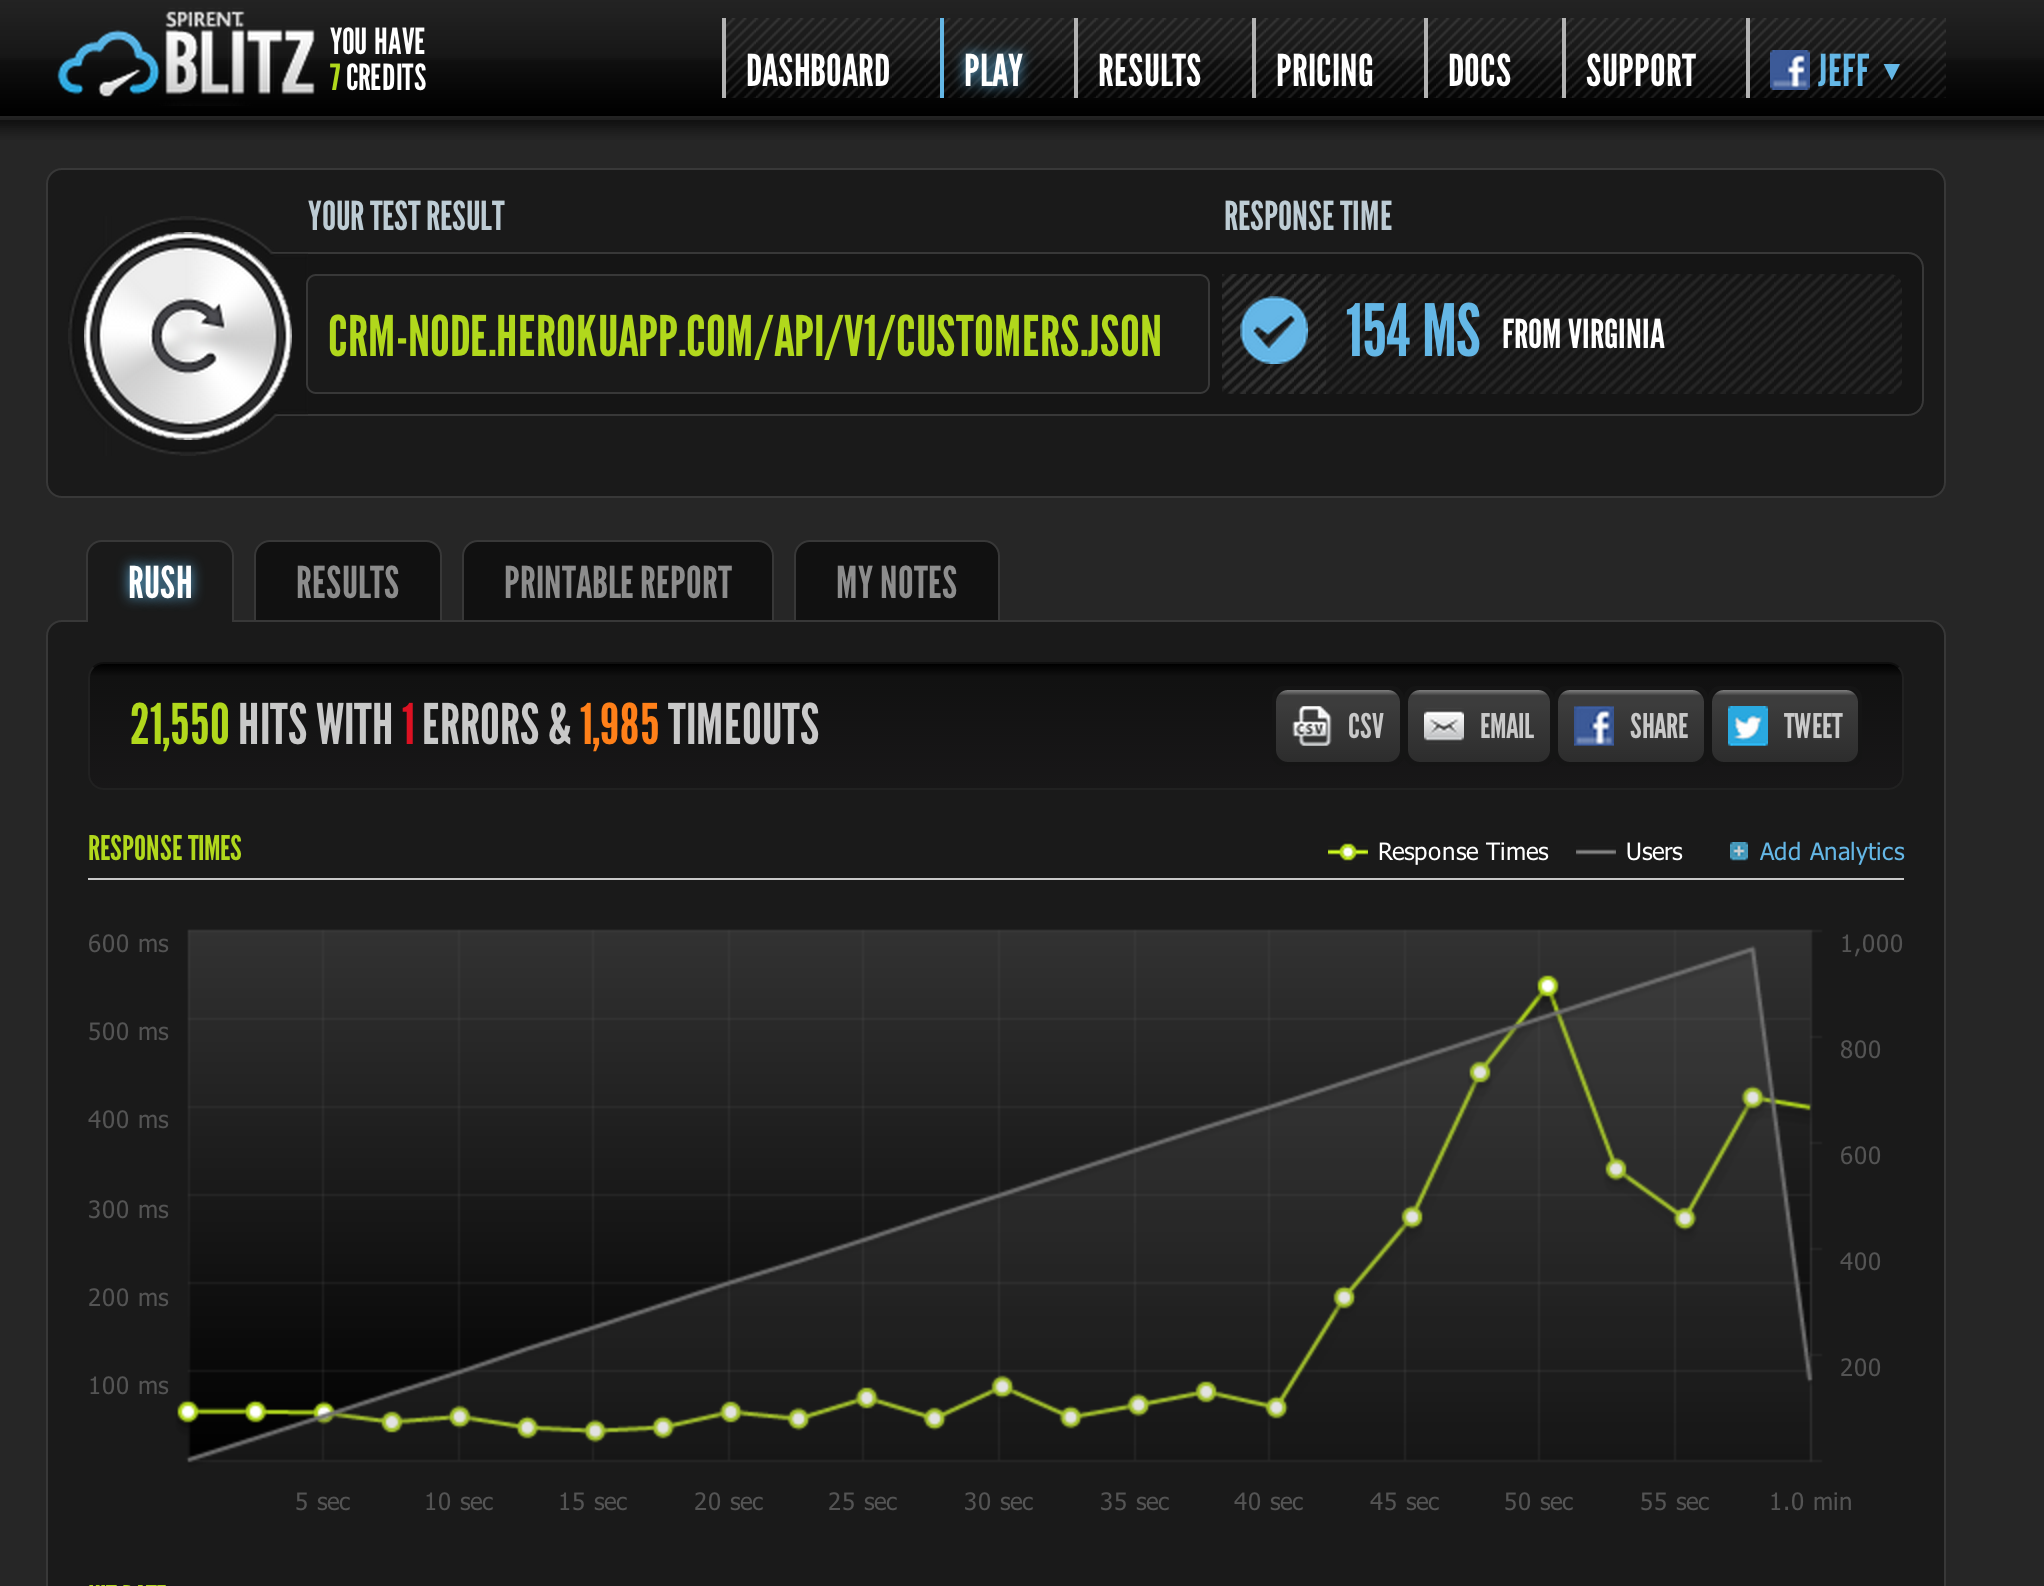
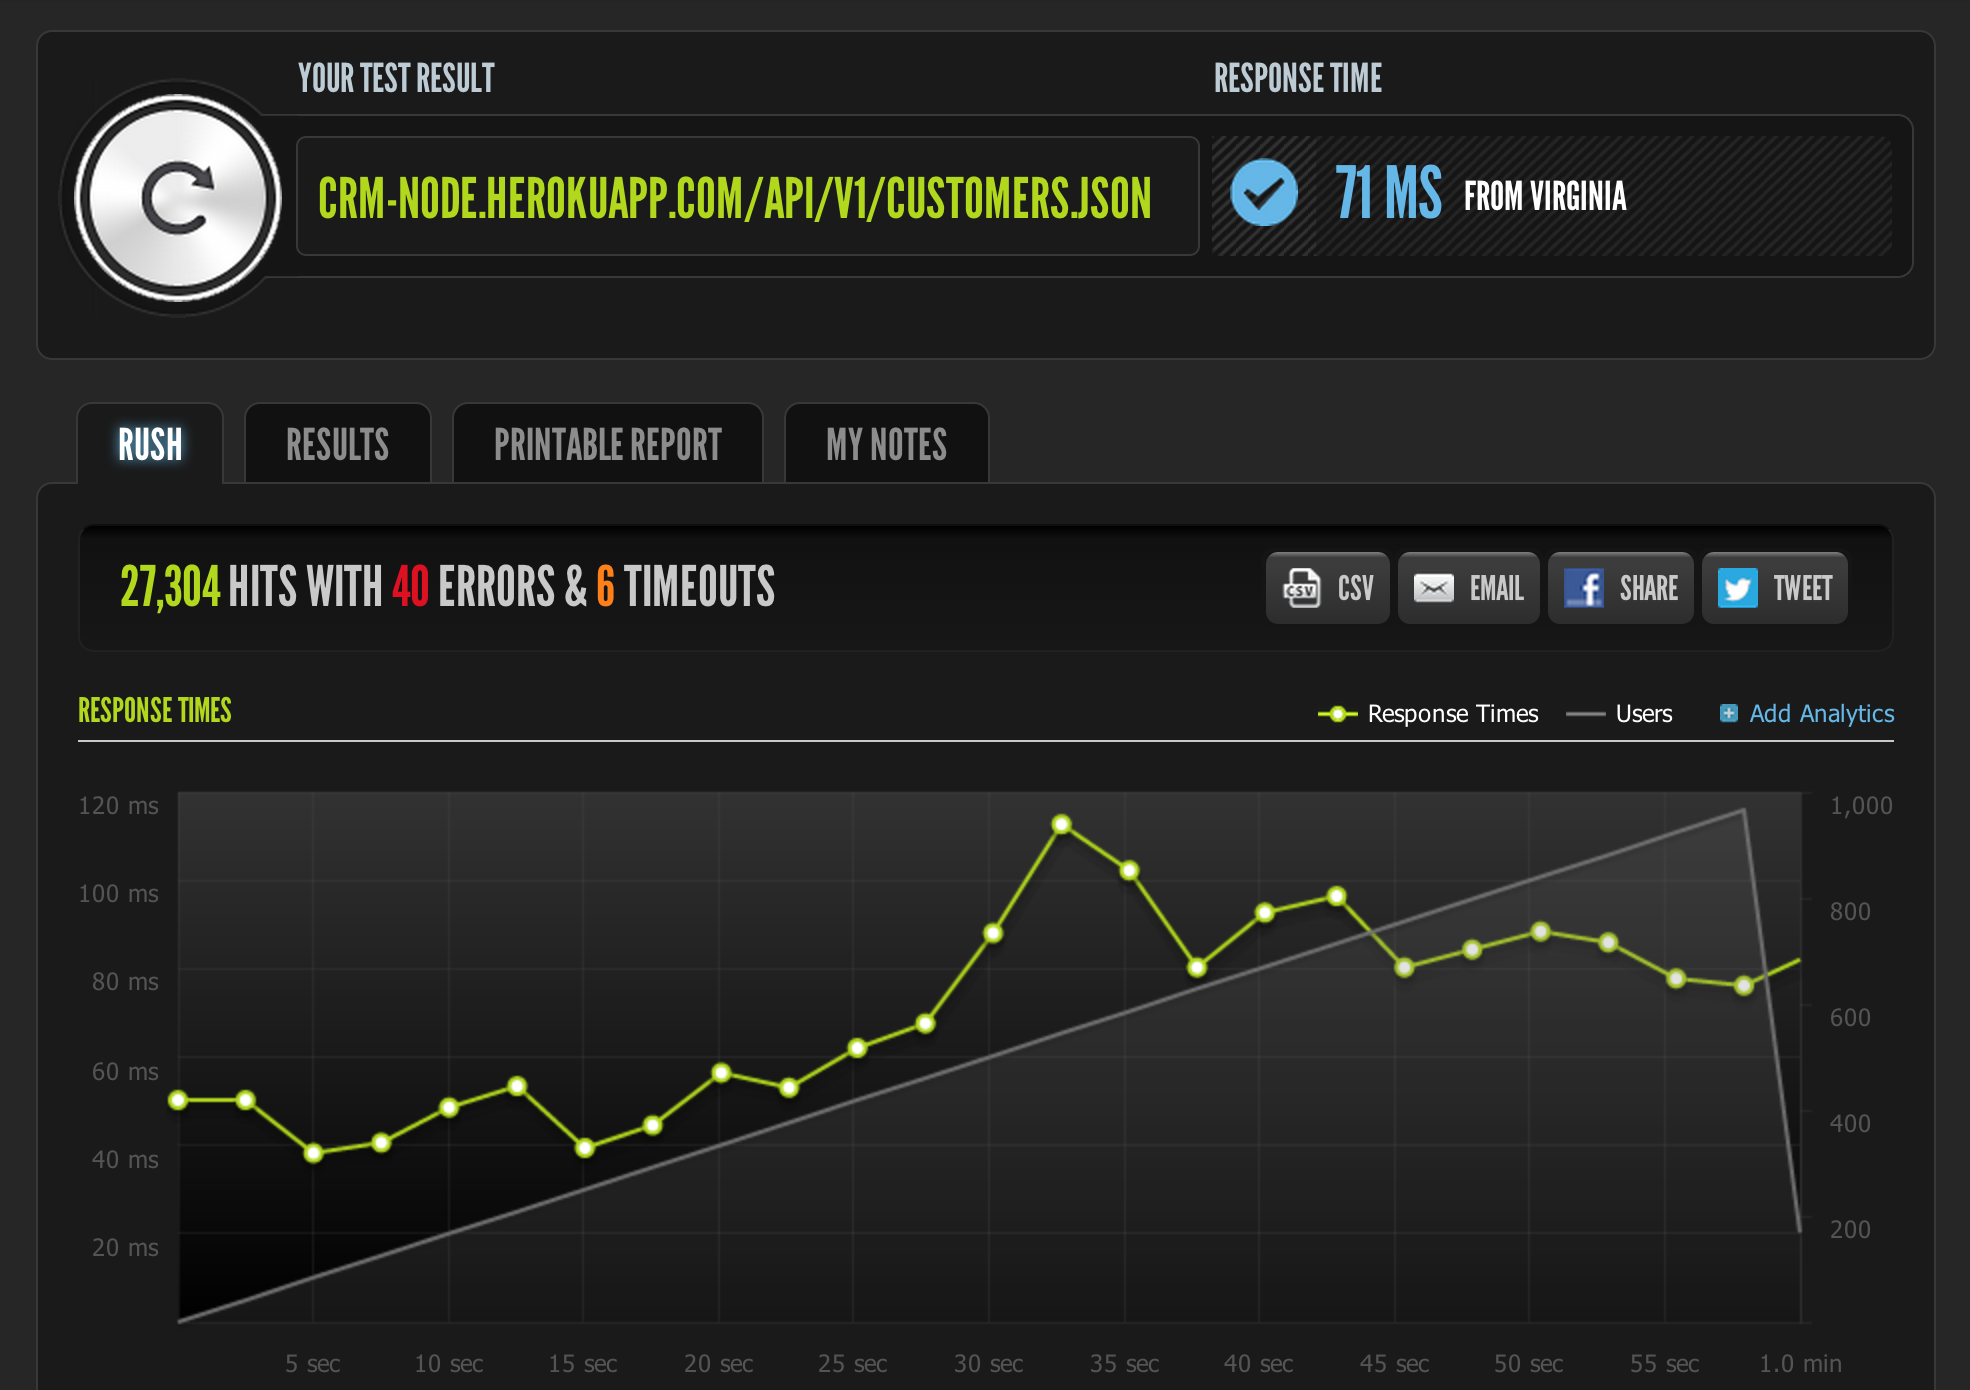
node updates

diff --git a/README.md b/README.md
@@ -13,6 +13,11 @@ There are 4 applications in this series:
 Back-End Performance Results
 ============================
 
+DO NOT READ TOO MUCH INTO THESE. This was just me playing around writing super
+contrived applications. You should try these experiments (and more!) yourself to
+determine what the right stack for your application is. I'm not trying to prove
+a point about anything here, just having fun.
+
 [Rails + PostgreSQL + HTML](https://www.blitz.io/report/dd5557fe3122f5542d33807c4d43064b)
 
 ![Rails + PostgreSQL](rails-pg-html.png)
@@ -25,11 +30,11 @@ Rails + MongoDB
 
 ![Rails + MongoDB](rails-mongodb.png)
 
-node.js + PostgreSQL
+[node.js + PostgreSQL](https://www.blitz.io/report/dd5557fe3122f5542d33807c4de36ccb)
 
 ![node.js + MongoDB](node-pg.png)
 
-[node.js + MongoDB](https://www.blitz.io/report/14700fa0c283368a02ee6b23dc89ac8b)
+[node.js + MongoDB](https://www.blitz.io/report/dd5557fe3122f5542d33807c4d637839)
 
 ![node.js + MongoDB](node-mongo.png)
 
